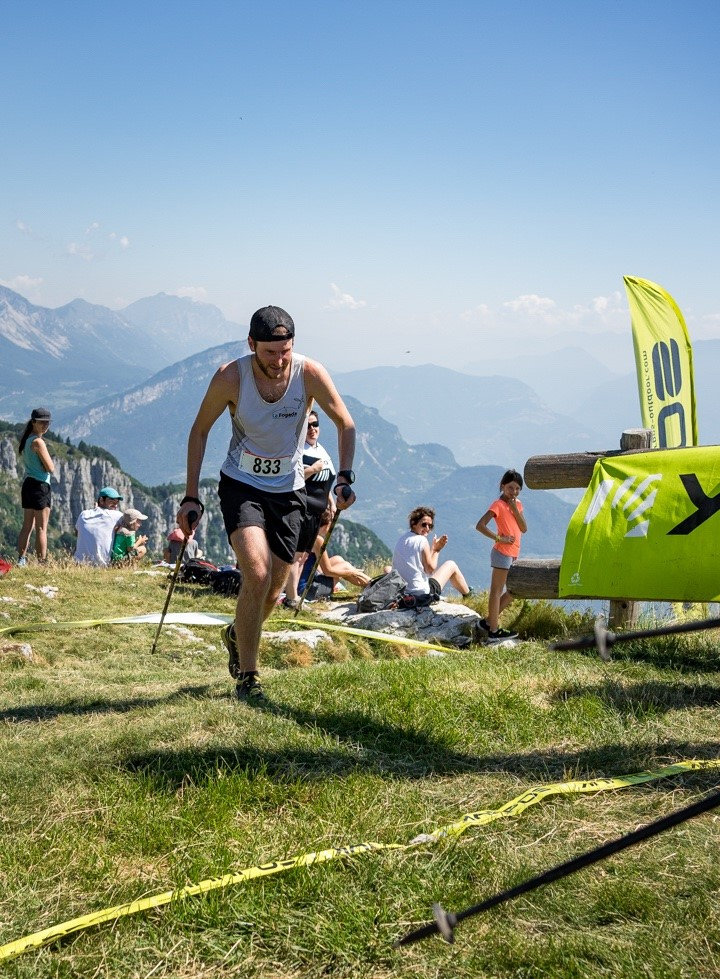
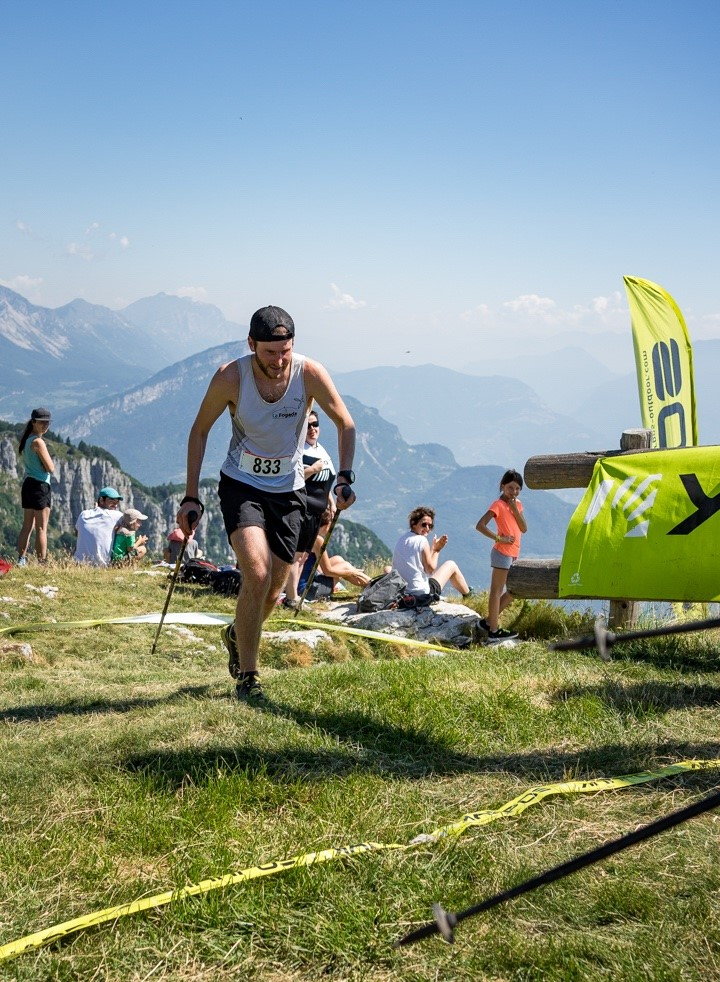
mods

Changed region(s): [[0.0, 0.3064, 1.0, 1.0], [0.8556, 0.2758, 0.9167, 0.3064]]

diff --git a/src/app/components/home/home.component.css b/src/app/components/home/home.component.css
@@ -1,12 +1,11 @@
 @import url('https://fonts.googleapis.com/css2?family=Bebas+Neue&family=Montserrat:ital,wght@1,900&family=Shadows+Into+Light&display=swap');
-
 * {
     font-family: 'Outfit', sans-serif;
     color: rgb(63, 63, 63);
 }
 
 .container__generale {
-    padding: 6vw 10vw 10vw 10vw;
+    padding: 5vw 10vw 10vw 10vw;
 }
 
 h1 {
@@ -23,7 +22,7 @@ a {
 h1,
 h3 {
     font-family: 'Shadows Into Light', cursive;
-    color: rgb(160, 163, 0);
+    color: rgb(0, 102, 136);
 }
 
 .title__upper {
@@ -36,33 +35,52 @@ h3 {
 
 .title__upper__sezione__uno {
     z-index: 99;
-    margin-top: -2cm;
+    margin-top: 2cm;
 }
 
 .title__upper__sezione__due {
     z-index: 50;
 }
 
-.title__upper__sezione__due img{
+.title__upper__sezione__due img {
     width: 100%;
 }
 
 .title__upper__sezione__uno h1 {
-    margin-right: -10cm !important;
+    margin-right: -10cm;
     font-size: 8rem;
+    margin-left: 2cm;
     color: rgb(0, 102, 136);
 }
 
 .title__upper__sezione__uno h3 {
     margin-top: -2cm;
-    margin-right: -10cm !important;
+    margin-left: 1cm;
+    margin-right: -10cm;
     font-size: 3rem;
     color: rgb(0, 102, 136);
+}
 
+.title__upper__sezione__uno h4 {
+    margin-top: 6vw;
+    margin-left: 2cm;
+}
+
+.menu {
+    margin: 0 -3cm 0 -3cm;
+    display: grid;
+    grid-template-columns: 1fr 1fr 1fr 1fr;
+    grid-template-rows: 1fr;
+    grid-template-areas: ". . . .";
+}
+
+.menu div {
+    text-align: center;
+    padding: 1vw;
 }
 
 .title__upper__sezione__tre {
-    padding: 6vw 0vw 10vw 10vw;
+    padding: 16vw 0vw 10vw 0vw;
     z-index: 99;
 }
 
@@ -73,15 +91,15 @@ ul {
 .title__upper__sezione__tre ul li {
     cursor: pointer;
     transition-duration: 0.2s;
-    line-height: 2cm;
+    line-height: 3cm;
 }
 
 .title__upper__sezione__tre ul li:hover {
     padding-left: 2vw;
 }
 
-.title__upper__sezione__tre ul li:hover h4{
-    color: rgb(0, 102, 136) !important;
+.title__upper__sezione__tre ul li:hover a {
+    color: rgb(0, 102, 136);
 }
 
 .coordinates {
@@ -93,10 +111,10 @@ ul {
     z-index: 0;
 }
 
-.coordinates h4{
-    margin: 0 !important;
-    padding: 0 !important;
-    font-size: 18rem !important;
+.coordinates h4 {
+    margin: 0;
+    padding: 0;
+    font-size: 20rem;
     color: rgba(216, 216, 216, 0.268);
     transform: rotate(10deg);
 }
@@ -132,16 +150,19 @@ R
 */
 
 .footer {
-    background-color: rgb(130, 133, 0);
-    padding: 4vw 10vw 0vw 10vw;
+    height: 900px;
+    background-color: rgb(0, 0, 0);
+    padding: 6vw 10vw 0vw 10vw;
     display: grid;
-    grid-template-columns: 1.2fr 1fr 1fr;
+    grid-template-columns: 2fr 1fr 1fr;
     grid-template-rows: 1fr 0.2fr;
     grid-template-areas: "footer__section__1 footer__section__2 footer__section__3" "octimal octimal octimal";
 }
 
 .footer__section__1 {
     grid-area: footer__section__1;
+    display: flex;
+    align-items: center;
 }
 
 .footer__section__2 {
@@ -157,12 +178,21 @@ R
 }
 
 .footer__section__1 h2 {
-    font-size: 4rem;
+    margin-top: -2cm;
+    font-family: 'Shadows Into Light', cursive;
+    color: rgb(0, 102, 136);
+    font-size: 8rem;
 }
 
 .footer__section__1 h4 {
-    font-size: 2rem;
-    margin-top: -1cm;
+    font-size: 3rem;
+    margin-top: -2cm;
+    font-family: 'Shadows Into Light', cursive;
+    color: rgb(0, 102, 136);
+}
+
+.footer h2 {
+    color: rgb(0, 102, 136);
 }
 
 .octimal {
@@ -172,8 +202,14 @@ R
 }
 
 .octimal h4 {
-    font-family: 'Montserrat', sans-serif !important;
-    color: #3b3b3b44
+    font-family: 'Montserrat', sans-serif;
+    color: #3b3b3b44;
+    transition-duration: 0.2s;
+}
+
+.octimal h4:hover {
+    font-family: 'Montserrat', sans-serif;
+    color: #007E6D
 }
 
 #animazionecentro {
@@ -183,11 +219,10 @@ R
     top: 0;
     left: 0;
     outline: none;
-    display: none !important;
 }
 
 .main {
-    display: block !important;
+    display: block;
     position: absolute;
     overflow: inherit;
     width: 100%;

diff --git a/src/app/components/home/home.component.ts b/src/app/components/home/home.component.ts
@@ -24,30 +24,83 @@ export class HomeComponent implements OnInit {
     
     document.body.appendChild( renderer.domElement );
 
-    const curve = new THREE.SplineCurve( [
-      new THREE.Vector2( 10, 0 ),
-      new THREE.Vector2( 20, 20 ),
-      new THREE.Vector2( 30, 20 ),
+    
+    let curve__x = 0;
+    let curve__y = 0;
+
+    if(curve__x <= 1){
+      curve__x += 0.1
+    }
+
+    const curve = new THREE.CatmullRomCurve3( [
+      new THREE.Vector3( curve__x-70, curve__y-35 ),
+      new THREE.Vector3( curve__x-60, curve__y-25 ),
+      new THREE.Vector3( curve__x-30, curve__y-10 ),
+      new THREE.Vector3( curve__x-20, curve__y-8 ),
+      new THREE.Vector3( curve__x-10, curve__y ),
+      new THREE.Vector3( curve__x+10, curve__y+5 ),
+      new THREE.Vector3( 30, 7 ),
+      
+      new THREE.Vector3( curve__x+32, curve__y+15 ),
+      new THREE.Vector3( curve__x+30, curve__y+15 ),
+      new THREE.Vector3( curve__x+30, curve__y+17 ),
+      new THREE.Vector3( curve__x+32, curve__y+17 ),
+      new THREE.Vector3( curve__x+32, curve__y+19 ),
+      new THREE.Vector3( curve__x+34, curve__y+19 ),
+      new THREE.Vector3( curve__x+34, curve__y+17 ),
+      new THREE.Vector3( curve__x+37, curve__y+17 ),
+      new THREE.Vector3( curve__x+37, curve__y+15 ),
+      new THREE.Vector3( curve__x+34, curve__y+15 ),
+      new THREE.Vector3( curve__x+35, curve__y+7 ),
+
+      new THREE.Vector3( curve__x+40, curve__y+6 ),
+      new THREE.Vector3( curve__x+50, curve__y+4 ),
+      new THREE.Vector3( curve__x+60, curve__y+0 ),
+      new THREE.Vector3( curve__x+80, curve__y-5 ),
     ] );
     
     const points = curve.getPoints( 1000 );
     const geometry = new THREE.BufferGeometry().setFromPoints( points );
     
-    const material = new THREE.MeshBasicMaterial( { color: 0xff0000, side: THREE.DoubleSide} );
-    
+    const material = new THREE.LineBasicMaterial( {
+      color: 0x006688,
+      
+    } );
     
     // Create the final object to add to the scene
-    const splineObject = new THREE.Line( geometry, material );
+    const splineObject = new THREE.LineSegments( geometry, material );
 
     scene.add( splineObject );
 
     camera.position.z = 40;
 
+    const grandezze = {
+      width: window.innerWidth,
+      height: window.innerHeight
+    }
+
+    
+
+    window.addEventListener('resize', (size: any) => {
+      grandezze.width = window.innerWidth;
+      grandezze.height = window.innerHeight;
+
+      camera.aspect = grandezze.width / grandezze.height;
+      camera.updateProjectionMatrix();
+
+      renderer.setSize(grandezze.width, grandezze.height);
+      renderer.setPixelRatio(Math.min(window.devicePixelRatio, 2))
+
+      renderer.render(scene, camera); // -> Also needed
+      console.log(window.innerHeight / 160)
+
+    })
+
     function animate() {
       requestAnimationFrame( animate );
       renderer.render( scene, camera );
     }
-    /* animate(); */
+    animate();
   }
 
   octimal(){

diff --git a/src/app/components/home/home.component.html b/src/app/components/home/home.component.html
@@ -5,28 +5,39 @@
                 <div class="title__upper__sezione__uno">
                     <h1>La Fogada</h1>
                     <h3>Vertical Race</h3>
-                    <div>
-                        <h4>Brentonico, TN</h4>
-                    </div>
                 </div>
                 <div class="title__upper__sezione__due">
-                    <img src="../../../assets/images/fogada_img_1.jpg">
+                    <img src="../../../assets/images/fogada_img_2.jpg">
+                    <div class="menu">
+                        <div>
+                            <a>La gara</a>
+                        </div>
+                        <div>
+                            <a>Contatti</a>
+                        </div>
+                        <div>
+                            <a>Iscrizione</a>
+                        </div>
+                        <div>
+                            <a>Gallery</a>
+                        </div>
+                    </div>
                 </div>
                 <div class="title__upper__sezione__tre">
-                    <div>
+                    <div style="display: none;">
                         <div>
                             <ul>
                                 <li>
-                                    <h4>La gara</h4>
+                                    <a>La gara</a>
                                 </li>
                                 <li>
-                                    <h4>Photo gallery</h4>
+                                    <a>Contatti</a>
                                 </li>
                                 <li>
-                                    <h4>Contatti</h4>
+                                    <a>Iscrizione</a>
                                 </li>
                                 <li>
-                                    <h4>Iscrizione</h4>
+                                    <a>Photo gallery</a>
                                 </li>
                             </ul>
                         </div>
@@ -34,8 +45,8 @@
                 </div>
             </div>
             <div class="coordinates">
-                    <h4>45°48'38.7"N</h4>
-                    <h4>10°54'50.8"E</h4>
+                <h4>45°48'38.7"N</h4>
+                <h4>10°54'50.8"E</h4>
             </div>
         </div>
         <div class="core__body">
@@ -58,8 +69,10 @@
     </div>
     <div class="footer">
         <div class="footer__section__1">
-            <h2>La fogada</h2>
-            <h4>Vertical Race</h4>
+            <div>
+                <h2>La fogada</h2>
+                <h4>Vertical Race</h4>
+            </div>
         </div>
         <div class="footer__section__2">
             <div>
@@ -82,6 +95,11 @@
         </div>
     </div>
 
+</div>
+<div class="popup__message">
+    <div>
+
+    </div>
 </div>
 <div id="animazionecentro">
     <canvas #animazioneCentro></canvas>
